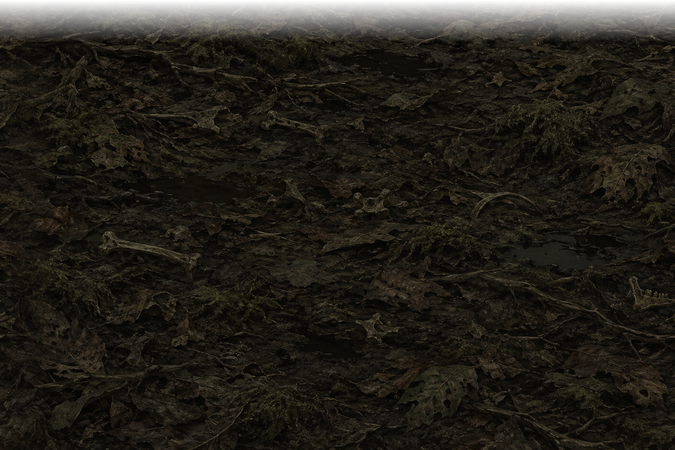
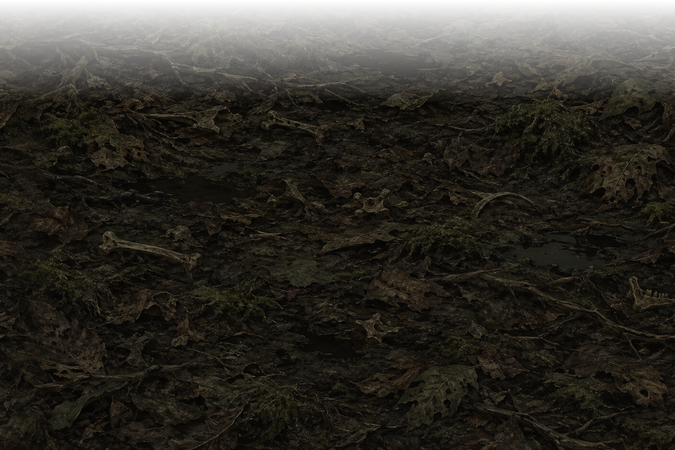
Kláda rovně přes cestu bez perspektivy a se správným překrýváním; větší tůně a pozadí bažiny, plynulejší přechod do cesty
Claude-Session: https://claude.ai/code/session_015jCRZS7ASg3pqxo763VEwg

Changed region(s): [[0.0, 0.0, 1.0, 0.2178]]

diff --git a/tools/build_bg.py b/tools/build_bg.py
@@ -17,7 +17,8 @@ ROOT = os.path.dirname(os.path.dirname(os.path.abspath(__file__)))
 SKY_H = 200      # výška oblohy ve hře (logické px)
 GROUND_H = 150   # výška pásu země
 GROUND_DARK = 0.68  # ztmavení země
-LOGP_H = 150     # výška klády v perspektivě (logické px)
+LOGP_H = 140     # délka klády přes cestu (logické px)
+LOGP_WIDEN = 1.5  # kláda je ve hře tlustší než v obrázku
 OBJ_H = 78       # výška největšího objektu v prostřední vrstvě (malé = daleko)
 COLORS = 40
 # Ponurá paleta: bláto, popel, špinavá oliva, zaschlá krev, kost
@@ -98,7 +99,7 @@ def main(biome):
     ga[..., :3] *= GROUND_DARK
     gi = retro(Image.fromarray(ga.astype(np.uint8), "RGBA"), (round(ga.shape[1] * GROUND_H / ga.shape[0]), GROUND_H))
     a = np.asarray(gi).copy()
-    rows = 14 * RES
+    rows = 34 * RES
     a[:rows, :, 3] = (a[:rows, :, 3] * np.linspace(0, 1, rows)[:, None]).astype(np.uint8)
     Image.fromarray(a, "RGBA").save(f"{out}/ground.png")
     # Objekty na zeleném pozadí (může jich být víc listů: _mid, _mid2, _mid3 ...)
@@ -187,13 +188,13 @@ def main(biome):
             mask = (lab[y0:y1, x0:x1] == i)
             crop = np.dstack([m[y0:y1, x0:x1].astype(np.uint8), (mask * 255).astype(np.uint8)])
             im = Image.fromarray(crop, "RGBA")
-            w = 78 + 16 * (water_n % 3)
-            wim = retro(im, (w, max(8, round(im.height * w / im.width * 0.62))))
+            w = 130 + 20 * (water_n % 3)
+            wim = retro(im, (w, max(8, round(im.height * w / im.width * 0.72))))
             wa = np.asarray(wim).copy()
             # rozpitý okraj: plynulé zeslábnutí 5 px
             solid = wa[..., 3] > 0
             dist = ndimage.distance_transform_edt(solid)
-            wa[..., 3] = (wa[..., 3] * np.clip(dist / (5 * RES), 0, 1)).astype(np.uint8)
+            wa[..., 3] = (wa[..., 3] * np.clip(dist / (3 * RES), 0, 1)).astype(np.uint8)
             Image.fromarray(wa, "RGBA").save(f"{out}/water_{water_n}.png")
             water_n += 1
     # Vzdálená bažina: pás s tůněmi a rákosím (bez oblohy), měkké boční okraje
@@ -270,34 +271,19 @@ def main(biome):
                 retro(im, (width, max(4, round(im.height * width / im.width)))).save(f"{out}/{prefix}_{n_out}.png")
                 n_out += 1
         extra[f"{biome}_{prefix}"] = n_out
-    # Kláda nakreslená rovnou v perspektivě (průhledné pozadí) -> logp_0.png
-    # + osa klády na zemi: x = ax * y + bx (logické px uvnitř obrázku), polovina tloušťky
+    # Kláda ležící rovně přes cestu (průhledné pozadí, svislá v obrázku) -> logp_0.png
+    # data: [výška, šířka] v logických px
     lpath = f"{src}/grim_{biome}_logp.png"
     if os.path.exists(lpath):
         im = Image.open(lpath).convert("RGBA")
         al = np.asarray(im)[..., 3] > 128
-        al = ndimage.binary_opening(al, iterations=2)
-        ys, xs = np.nonzero(al)
+        ys, xs = np.nonzero(ndimage.binary_opening(al, iterations=2))
         im = im.crop((xs.min(), ys.min(), xs.max() + 1, ys.max() + 1))
-        al = al[ys.min():ys.max() + 1, xs.min():xs.max() + 1]
         H = LOGP_H
-        k = H / al.shape[0]
-        W = round(al.shape[1] * k)
+        W = round(im.width * H / im.height * LOGP_WIDEN)
         retro(im, (W, H)).save(f"{out}/logp_0.png")
-        rows = [(y, np.nonzero(al[y])[0]) for y in range(al.shape[0])]
-        rows = [(y, r) for y, r in rows if r.size > 0]
-        n = len(rows)
-        sel = rows[int(n * 0.15):int(n * 0.85)]
-        yy = np.array([y for y, r in sel], float) * k
-        cx = np.array([(r.min() + r.max()) / 2 for y, r in sel], float) * k
-        wd = np.array([r.max() - r.min() for y, r in sel], float) * k
-        ax, bx = np.polyfit(yy, cx, 1)
-        half = float(np.median(wd)) * 0.5
-        # zem je pod osou válce: posun o čtvrtinu šířky dolů
-        d = half * 0.5
-        bx = bx - ax * d
-        extra[f"{biome}_logp"] = [round(float(ax), 4), round(float(bx), 2), round(half, 2), W, H]
-        print("logp", extra[f"{biome}_logp"])
+        extra[f"{biome}_logp"] = [H, W]
+        print("logp", H, W)
     # Seznam objektů pro hru
     data_path = os.path.join(ROOT, "scripts/bg_data.gd")
     data = {}
